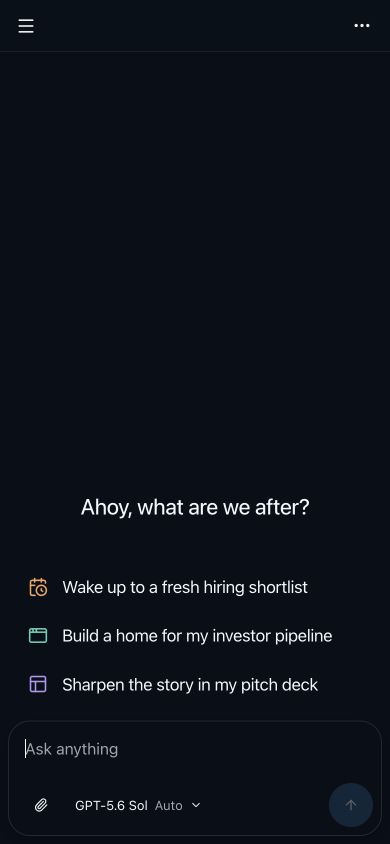
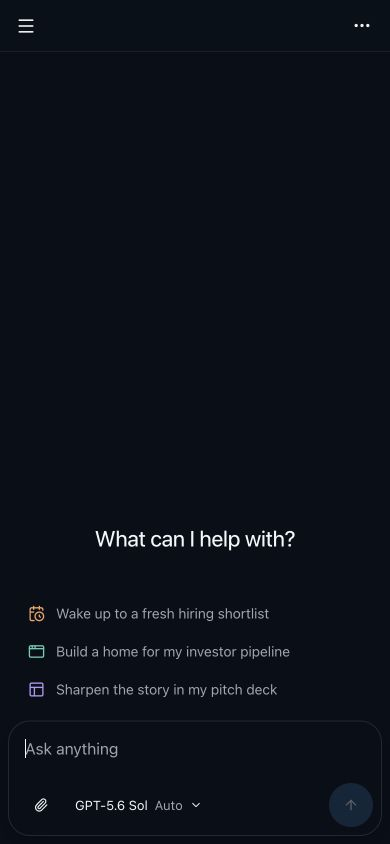
Soften suggested activities and fix CI checks

Changed region(s): [[0.1538, 0.6777, 0.8615, 0.8318], [0.2154, 0.5853, 0.8, 0.6469], [0.0615, 0.6777, 0.1231, 0.8318]]

diff --git a/plugins/web-ui/src/shell.css b/plugins/web-ui/src/shell.css
@@ -2496,20 +2496,20 @@ a.chat-row-open {
 }
 .suggested-activities {
   width: min(var(--content-w), calc(100% - 32px));
-  margin: 0 auto 18px;
+  margin: 0 auto 10px;
   padding: 0 2px;
 }
 .suggested-activity {
   display: flex;
   align-items: center;
-  gap: 14px;
+  gap: 11px;
   width: 100%;
-  min-height: 48px;
-  padding: 12px 10px;
+  min-height: 38px;
+  padding: 8px 10px;
   border: 0;
   border-radius: 12px;
   background: transparent;
-  color: var(--foreground);
+  color: var(--muted-foreground);
   text-align: left;
   font: inherit;
   cursor: pointer;
@@ -2522,15 +2522,24 @@ a.chat-row-open {
   outline-offset: 2px;
 }
 .suggested-activity-title {
-  font-size: 17px;
-  line-height: 1.45;
-  letter-spacing: -0.25px;
+  font-size: 14px;
+  line-height: 1.4;
+  letter-spacing: -0.1px;
   overflow-wrap: anywhere;
 }
 .suggested-activity-icon {
   display: flex;
   flex-shrink: 0;
   color-scheme: light;
+}
+.suggested-activity-icon svg {
+  width: 17px;
+  height: 17px;
+}
+@media (pointer: coarse) {
+  .suggested-activity {
+    min-height: 44px;
+  }
 }
 .dark .suggested-activity-icon {
   color-scheme: dark;

diff --git a/plugins/web-ui/server/index.ts b/plugins/web-ui/server/index.ts
@@ -1185,8 +1185,8 @@ const apiRoutes: readonly WebRoute[] = [
         modelAuthConnected: (parsed.connections?.length ?? 0) > 0,
         impersonatedBy: resolveIdentity(req)?.impersonator ?? null,
         displayName: resolveIdentity(req)?.name ?? null,
-        permissions,
         ...(suggestedActivities.length ? { suggestedActivities } : {}),
+        permissions,
       });
     },
   },

diff --git a/plugins/web-ui/suggested-activities.ts b/plugins/web-ui/suggested-activities.ts
@@ -1,4 +1,4 @@
-export const activityIcons = ["schedule", "app", "deck", "people", "calendar", "book"] as const;
+const activityIcons = ["schedule", "app", "deck", "people", "calendar", "book"] as const;
 
 export interface SuggestedActivity {
   id: string;
